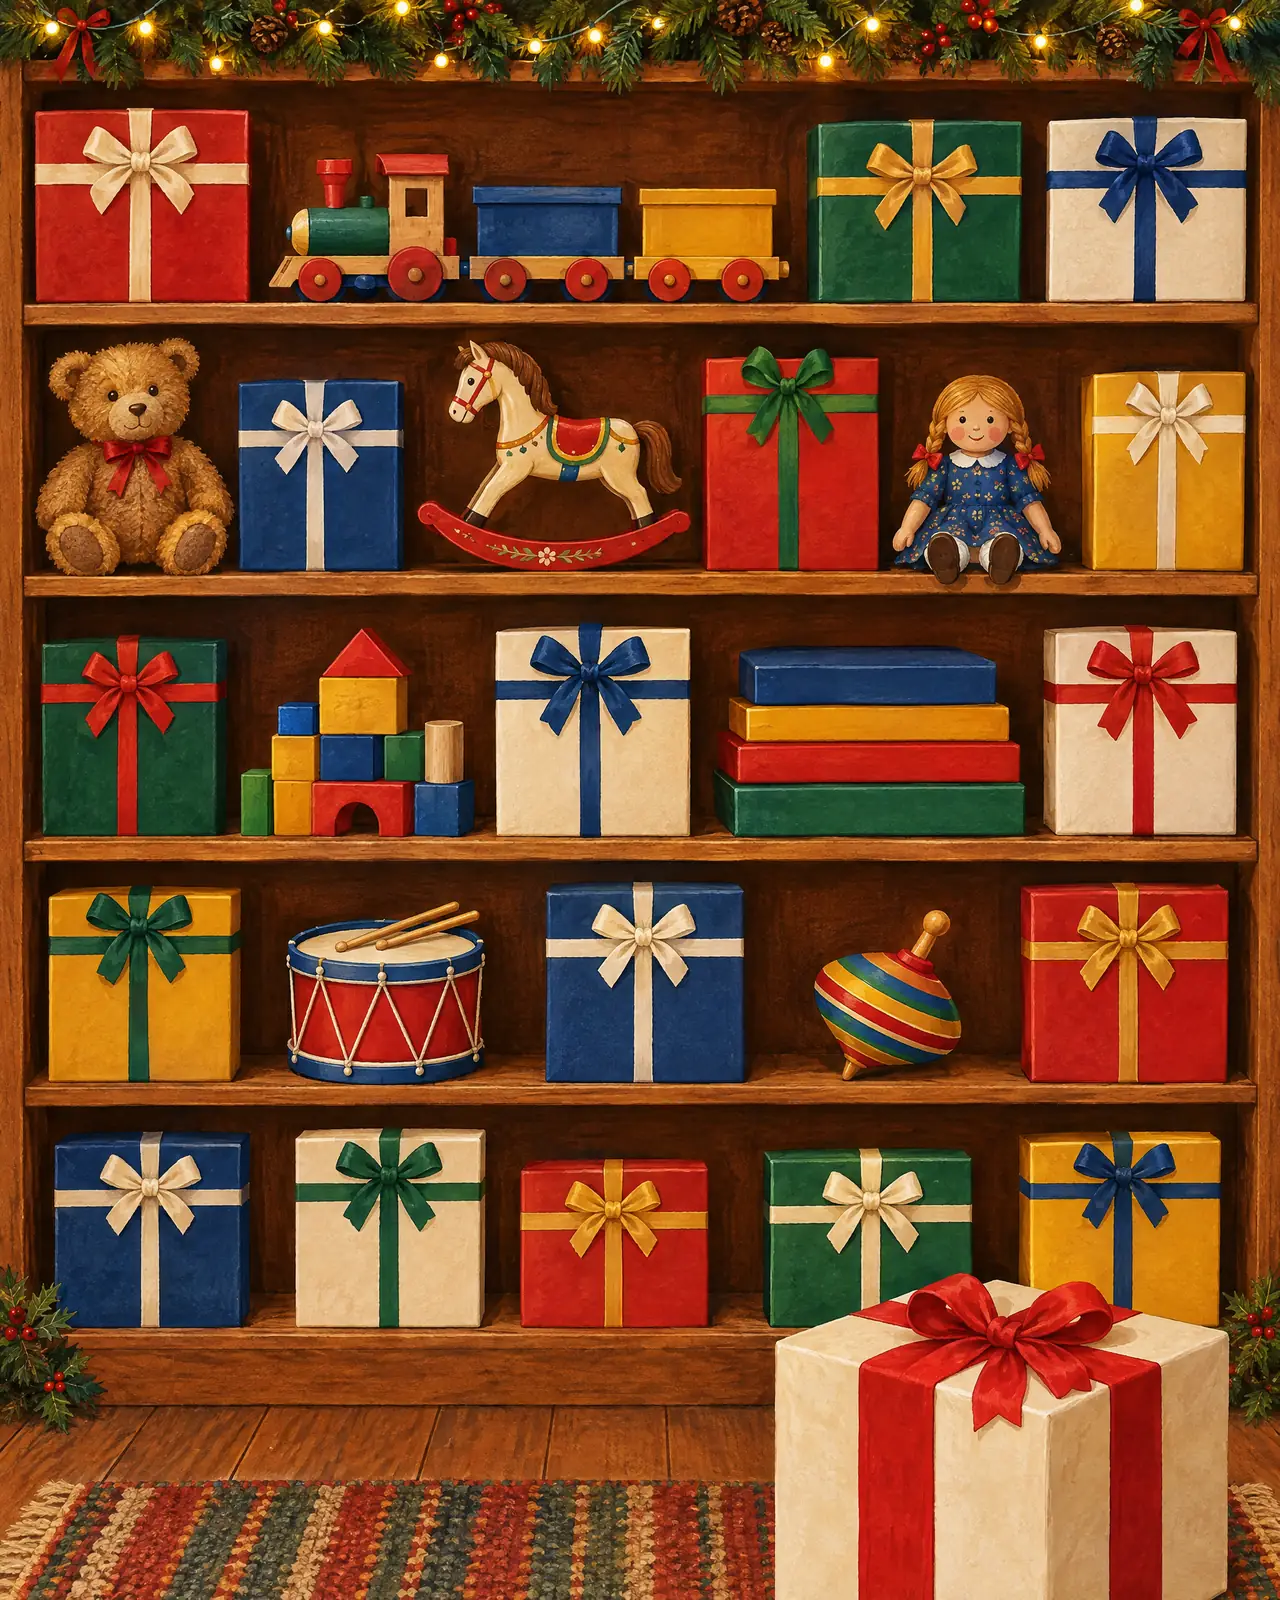
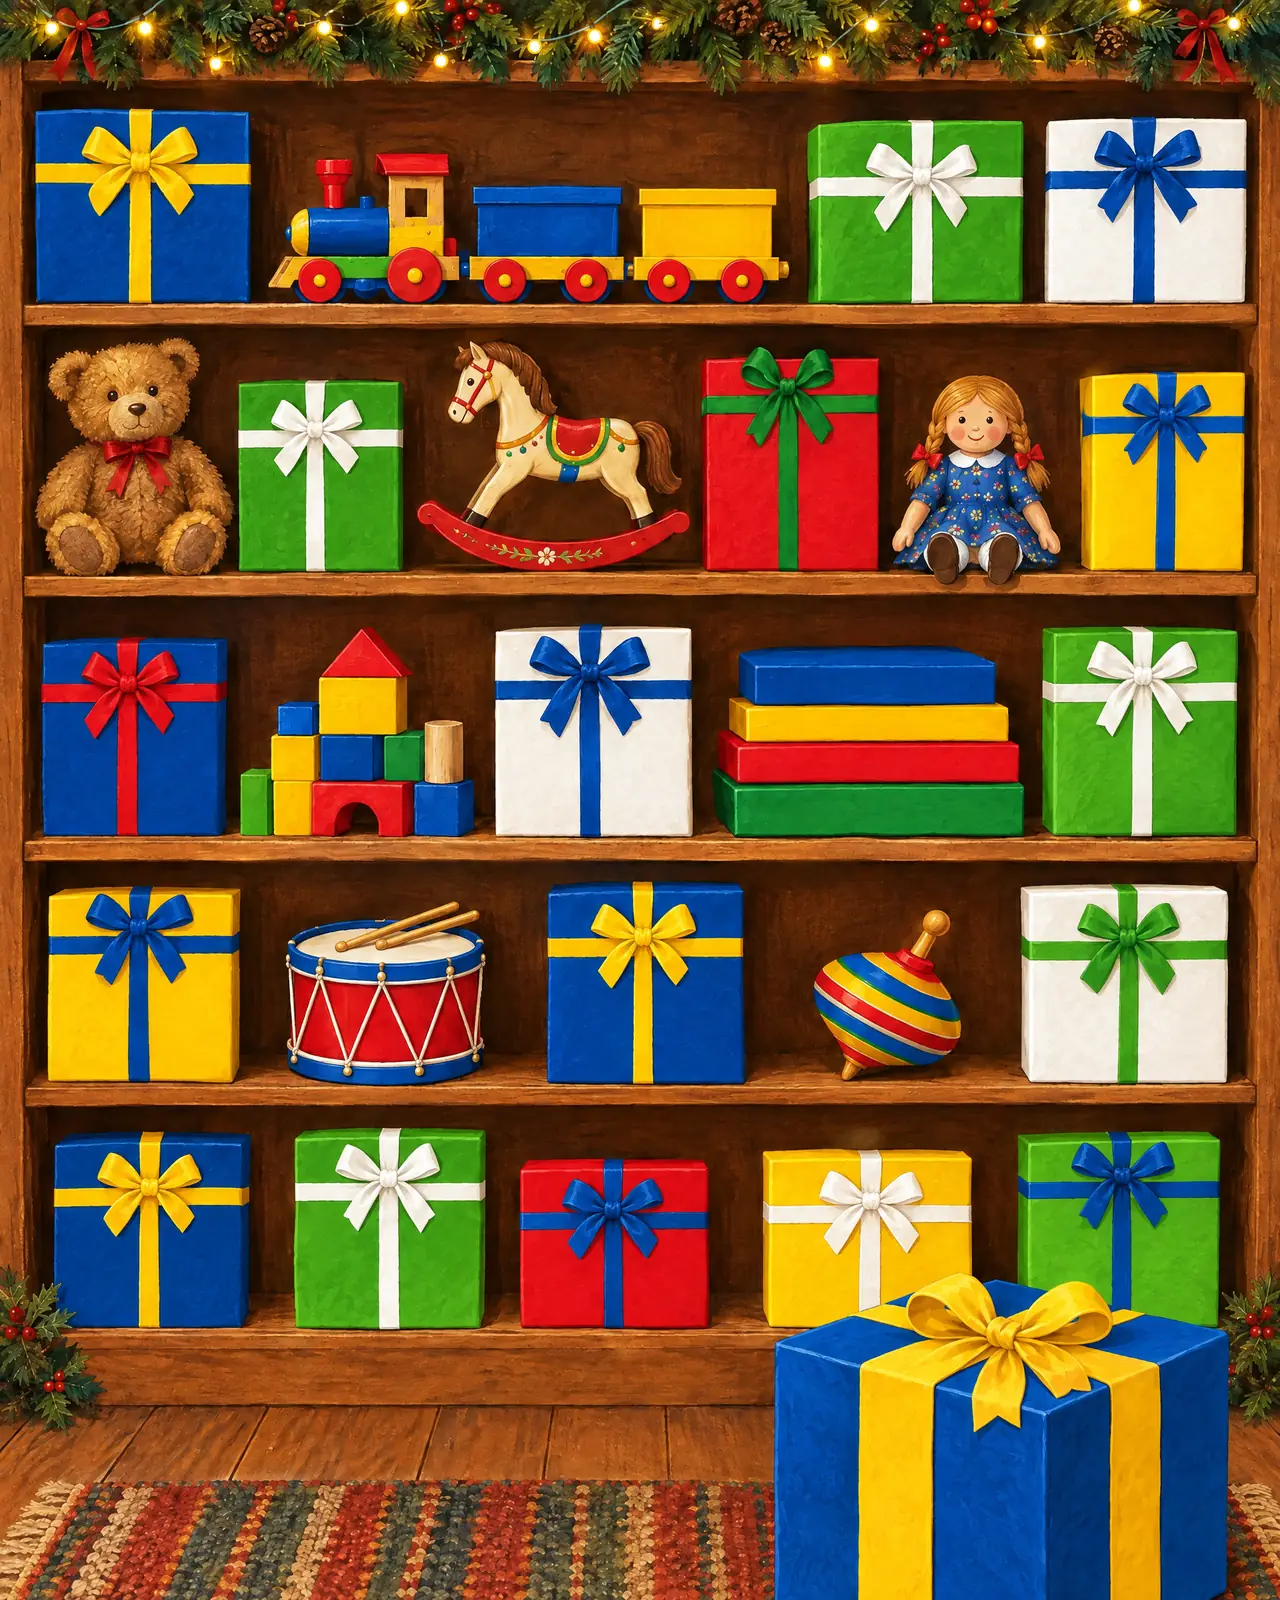
Paint Santa's workshop in Sparkys colours, reorder the look groups
The toy shop scene is recoloured to the Sparkys palette (blue, yellow,
green, red) with every box kept in place, and the look uses the same
colours. The gingerbread village closes the Christmas set and the
year-round set starts with the bedroom, passport and cottage looks.

diff --git a/index.html b/index.html
@@ -594,7 +594,7 @@
 
   /* téma: Sněhulák a sobi (vymyšlené, kreslené) */
   .demo[data-theme="snehulak"] { --d-bg: #0f3d2e; --d-ink: #f4f7ff; --d-ink-2: #bfd5c8; --d-today: #ffd21f; --d-today-ink: #132747; --d-btn: #DA2A49; --d-btn-ink: #fff; --d-font: 'Inter', 'Inter Fallback', Arial, sans-serif; --d-card: rgba(255,255,255,.08); --d-card-line: rgba(255,255,255,.16); }
-  .demo[data-theme="hracky"] { --d-bg: #1d2a57; --d-ink: #fffaf0; --d-ink-2: #c9d0ea; --d-today: #ffcd3c; --d-today-ink: #1d2a57; --d-btn: #e3242b; --d-btn-ink: #fff; --d-font: 'Inter', 'Inter Fallback', Arial, sans-serif; --d-card: rgba(255,255,255,.08); --d-card-line: rgba(255,255,255,.16); }
+  .demo[data-theme="hracky"] { --d-bg: #004996; --d-ink: #ffffff; --d-ink-2: #d4edfc; --d-today: #ffcd00; --d-today-ink: #0b093b; --d-btn: #52c018; --d-btn-ink: #fff; --adv-n-ink: #004996; --d-font: 'Inter', 'Inter Fallback', Arial, sans-serif; --d-card: rgba(255,255,255,.08); --d-card-line: rgba(255,255,255,.16); }
   .demo[data-theme="obyvak"] { --d-bg: #efe8de; --d-ink: #2c2a26; --d-ink-2: #6f675c; --d-today: #c8693f; --d-today-ink: #fff; --d-btn: #2c2a26; --d-btn-ink: #fff; --d-font: Georgia, 'Times New Roman', serif; --d-card: #fff; --d-card-line: #e0d8cc; --adv-n-ink: #2c2a26; }
   .demo[data-theme="loznice"] { --d-bg: #f5eee6; --d-ink: #3b2c25; --d-ink-2: #7a6558; --d-today: #b8323a; --d-today-ink: #fff; --d-btn: #b8323a; --d-btn-ink: #fff; --d-font: Georgia, 'Times New Roman', serif; --d-card: #fff; --d-card-line: #e6dbd0; --adv-n-ink: #b8323a; }
   .demo[data-theme="vesnicka"] { --d-bg: #4a2516; --d-ink: #fff6ea; --d-ink-2: #e3c7a8; --d-today: #ffd27a; --d-today-ink: #4a2516; --d-btn: #c8382c; --d-btn-ink: #fff; --d-font: Georgia, 'Times New Roman', serif; --d-card: rgba(255,255,255,.08); --d-card-line: rgba(255,255,255,.16); --adv-n-ink: #7a3a1c; }
@@ -1400,22 +1400,22 @@
         <div class="vz-set" role="group" aria-label="Vánoce a advent"><span class="vz-k" aria-hidden="true">Vánoce a advent</span><div class="vz-thumbs">
           <button type="button" class="vz-th" data-theme="fotoskoda" aria-pressed="true" aria-label="Dům s okny" title="Dům s okny" data-kat="Vánoce a advent" data-meta="Fototechnika · 24 dní" data-stitek="Skutečná kampaň" data-review-id="demo-vzhled-fotoskoda"><img src="img/nahledy/fotoskoda.webp" alt="" width="60" height="75" decoding="async"></button>
           <button type="button" class="vz-th" data-theme="snehulak" aria-pressed="false" aria-label="Zimní zahrada" title="Zimní zahrada" data-kat="Vánoce a advent" data-meta="Jakýkoli e‑shop · 24 dní" data-stitek="" data-review-id="demo-vzhled-snehulak"><img src="img/nahledy/snehulak.webp" alt="" width="60" height="75" decoding="async"></button>
-          <button type="button" class="vz-th" data-theme="vesnicka" aria-pressed="false" aria-label="Perníková vesnička" title="Perníková vesnička" data-kat="Vánoce a advent" data-meta="Cukrárny a delikatesy · 24 dní" data-stitek="" data-review-id="demo-vzhled-vesnicka"><img src="img/nahledy/vesnicka.webp" alt="" width="60" height="75" decoding="async"></button>
           <button type="button" class="vz-th" data-theme="hracky" aria-pressed="false" aria-label="Santova dílna" title="Santova dílna" data-kat="Vánoce a advent" data-meta="Hračkářství · 24 dní" data-stitek="" data-review-id="demo-vzhled-hracky"><img src="img/nahledy/hracky.webp" alt="" width="60" height="75" decoding="async"></button>
           <button type="button" class="vz-th" data-theme="obyvak" aria-pressed="false" aria-label="Vánoční obývák" title="Vánoční obývák" data-kat="Vánoce a advent" data-meta="Nábytek a bytové doplňky · 24 dní" data-stitek="" data-review-id="demo-vzhled-obyvak"><img src="img/nahledy/obyvak.webp" alt="" width="60" height="75" decoding="async"></button>
           <button type="button" class="vz-th" data-theme="loznice" aria-pressed="false" aria-label="24 nocí do Vánoc" title="24 nocí do Vánoc" data-kat="Vánoce a advent" data-meta="Ložní prádlo a textil · 24 dní" data-stitek="" data-review-id="demo-vzhled-loznice"><img src="img/nahledy/loznice.webp" alt="" width="60" height="75" decoding="async"></button>
           <button type="button" class="vz-th" data-theme="chata" aria-pressed="false" aria-label="Zasněžená chalupa" title="Zasněžená chalupa" data-kat="Vánoce a advent" data-meta="Chaty a chalupy · 24 dní" data-stitek="" data-review-id="demo-vzhled-chata"><img src="img/nahledy/chata.webp" alt="" width="60" height="75" decoding="async"></button>
+          <button type="button" class="vz-th" data-theme="vesnicka" aria-pressed="false" aria-label="Perníková vesnička" title="Perníková vesnička" data-kat="Vánoce a advent" data-meta="Cukrárny a delikatesy · 24 dní" data-stitek="" data-review-id="demo-vzhled-vesnicka"><img src="img/nahledy/vesnicka.webp" alt="" width="60" height="75" decoding="async"></button>
         </div></div>
         <span class="vz-sep" aria-hidden="true"></span>
         <div class="vz-set" role="group" aria-label="Kdykoli během roku"><span class="vz-k" aria-hidden="true">Kdykoli během roku</span><div class="vz-thumbs">
-          <button type="button" class="vz-th" data-theme="harfa" aria-pressed="false" aria-label="Slavíme 30 let" title="Slavíme 30 let" data-kat="Kdykoli během roku" data-meta="Sportovní e‑shop · 30 dní" data-stitek="Skutečná kampaň" data-review-id="demo-vzhled-harfa"><img src="img/nahledy/harfa.webp" alt="" width="60" height="75" decoding="async"></button>
-          <button type="button" class="vz-th" data-theme="obalky" aria-pressed="false" aria-label="Deset let, deset obálek" title="Deset let, deset obálek" data-kat="Kdykoli během roku" data-meta="Výročí e‑shopu · 10 dní" data-stitek="" data-review-id="demo-vzhled-obalky"><img src="img/nahledy/obalky.webp" alt="" width="60" height="75" decoding="async"></button>
-          <button type="button" class="vz-th" data-theme="velikonoce" aria-pressed="false" aria-label="Velikonoční kraslice" title="Velikonoční kraslice" data-kat="Kdykoli během roku" data-meta="Zahrada a jaro · 24 dní" data-stitek="" data-review-id="demo-vzhled-velikonoce"><img src="img/nahledy/velikonoce.webp" alt="" width="60" height="75" decoding="async"></button>
-          <button type="button" class="vz-th" data-theme="raketa" aria-pressed="false" aria-label="Odpočet ke startu" title="Odpočet ke startu" data-kat="Kdykoli během roku" data-meta="Stavebnice · 10 dní" data-stitek="" data-review-id="demo-vzhled-raketa"><img src="img/nahledy/raketa.webp" alt="" width="60" height="75" decoding="async"></button>
           <button type="button" class="vz-th" data-theme="spani" aria-pressed="false" aria-label="7 nocí pro spánek" title="7 nocí pro spánek" data-kat="Kdykoli během roku" data-meta="Bytový textil · 7 nocí" data-stitek="" data-review-id="demo-vzhled-spani"><img src="img/nahledy/spani.webp" alt="" width="60" height="75" decoding="async"></button>
           <button type="button" class="vz-th" data-theme="pas" aria-pressed="false" aria-label="Cestovní pas" title="Cestovní pas" data-kat="Kdykoli během roku" data-meta="Duty free na hranici · 14 dní" data-stitek="" data-review-id="demo-vzhled-pas"><img src="img/nahledy/pas.webp" alt="" width="60" height="75" decoding="async"></button>
           <button type="button" class="vz-th" data-theme="chalupa" aria-pressed="false" aria-label="Víkendy na chalupě" title="Víkendy na chalupě" data-kat="Kdykoli během roku" data-meta="Chaty a chalupy · 8 víkendů" data-stitek="" data-review-id="demo-vzhled-chalupa"><img src="img/nahledy/chalupa.webp" alt="" width="60" height="75" decoding="async"></button>
           <button type="button" class="vz-th" data-theme="vzorky" aria-pressed="false" aria-label="Archiv v barvách" title="Archiv v barvách" data-kat="Kdykoli během roku" data-meta="Prémiový nábytek · 8 dní" data-stitek="" data-review-id="demo-vzhled-vzorky"><img src="img/nahledy/vzorky.webp" alt="" width="60" height="75" decoding="async"></button>
+          <button type="button" class="vz-th" data-theme="velikonoce" aria-pressed="false" aria-label="Velikonoční kraslice" title="Velikonoční kraslice" data-kat="Kdykoli během roku" data-meta="Zahrada a jaro · 24 dní" data-stitek="" data-review-id="demo-vzhled-velikonoce"><img src="img/nahledy/velikonoce.webp" alt="" width="60" height="75" decoding="async"></button>
+          <button type="button" class="vz-th" data-theme="obalky" aria-pressed="false" aria-label="Deset let, deset obálek" title="Deset let, deset obálek" data-kat="Kdykoli během roku" data-meta="Výročí e‑shopu · 10 dní" data-stitek="" data-review-id="demo-vzhled-obalky"><img src="img/nahledy/obalky.webp" alt="" width="60" height="75" decoding="async"></button>
+          <button type="button" class="vz-th" data-theme="raketa" aria-pressed="false" aria-label="Odpočet ke startu" title="Odpočet ke startu" data-kat="Kdykoli během roku" data-meta="Stavebnice · 10 dní" data-stitek="" data-review-id="demo-vzhled-raketa"><img src="img/nahledy/raketa.webp" alt="" width="60" height="75" decoding="async"></button>
+          <button type="button" class="vz-th" data-theme="harfa" aria-pressed="false" aria-label="Slavíme 30 let" title="Slavíme 30 let" data-kat="Kdykoli během roku" data-meta="Sportovní e‑shop · 30 dní" data-stitek="Skutečná kampaň" data-review-id="demo-vzhled-harfa"><img src="img/nahledy/harfa.webp" alt="" width="60" height="75" decoding="async"></button>
         </div></div>
       </div>
     </div>
@@ -1810,7 +1810,7 @@
     harfa: { dni: 30, layout: 'grid', top: '', eyebrow: 'Sportovní e‑shop · 30 let', t: 'Slavíme 30' + NB + 'let', l: 'Každý den odkryjete jedno okénko. Uvnitř je sleva, doprava zdarma, dárek nebo služba na' + NB + 'prodejně.', btn: 'Odkrýt dnešní dárek', den: 'den' },
     zlate: { dni: 24, layout: 'grid', top: '', eyebrow: 'Vaše značka · advent 2026', t: 'Zlaté Vánoce', l: 'Čtyřiadvacet dvířek, čtyřiadvacet dárků. Otevřít jde jen to dnešní.', btn: 'Otevřít dnešní dvířka', den: 'dvířka' },
     snehulak: { dni: 24, layout: 'advent', top: '', eyebrow: 'Vaše značka · advent 2026', t: 'Zimní zahrada', l: 'Obrázek jako z' + NB + 'dětství, do kterého je vyřezáno 24' + NB + 'okének. Každý den se jedno vyloupne a' + NB + 'schová dárek.', btn: 'Vyloupnout dnešní okénko', den: 'okénko', finale: 'Ukázat Štědrý den' },
-    hracky: { dni: 24, layout: 'advent', top: '', eyebrow: 'Hračkářství · advent 2026', t: 'Santova dílna', l: 'Regál plný krabic, vláčků a' + NB + 'bubínků. Každý den se jedna krabice otevře a' + NB + 'uvnitř čeká dárek pro malé i' + NB + 'velké.', btn: 'Otevřít dnešní krabici', den: 'krabice', finale: 'Ukázat Štědrý den' },
+    hracky: { dni: 24, layout: 'advent', top: '', eyebrow: 'Hračkářství · advent 2026', t: 'Santova dílna', l: 'Regál plný krabic, vláčků a' + NB + 'bubínků. Každý den se jedna krabice otevře a' + NB + 'uvnitř čeká dárek pro malé i' + NB + 'velké.', btn: 'Otevřít dnešní krabici', den: 'krabice', finale: 'Ukázat Štědrý den', tip: 'Klikněte na' + NB + 'dnešní krabici a' + NB + 'odkryjte dárek.' },
     obyvak: { dni: 24, layout: 'advent', top: '', eyebrow: 'Nábytek a doplňky · advent 2026', t: 'Vánoční obývák', l: 'Šuplíky komody, rámy na' + NB + 'zdi, polštáře i' + NB + 'dárky pod stromkem. Každý den se jeden kousek domova otevře a' + NB + 'schová dárek.', btn: 'Otevřít dnešní okénko', den: 'okénko', finale: 'Ukázat Štědrý den' },
     loznice: { dni: 24, layout: 'advent', top: '', eyebrow: 'Ložní prádlo · advent 2026', t: '24 nocí do' + NB + 'Vánoc', l: 'Okenní tabulky, polštáře i' + NB + 'šuplíky nočních stolků. Každou noc se jedno okénko otevře a' + NB + 'za oknem přibývá sněhu.', btn: 'Otevřít dnešní noc', den: 'noc', finale: 'Ukázat Štědrou noc' },
     vesnicka: { dni: 24, layout: 'advent', top: '', eyebrow: 'Cukrárna a delikatesy · advent 2026', t: 'Perníková vesnička', l: 'Čtyři perníkové chaloupky a' + NB + 'kostelík. Každé okno a' + NB + 'dvířka schovávají jednu dobrotu, na' + NB + 'Štědrý den se rozsvítí rozeta kostela.', btn: 'Otevřít dnešní okénko', den: 'okénko', finale: 'Ukázat Štědrý den' },
@@ -2279,7 +2279,7 @@
   });
 
   // the admin preview borrows the chosen calendar's brand colour and font
-  var ADMIN_BARVY = { fotoskoda: '#0d1f52', snehulak: '#0f3d2e', hracky: '#1d2a57', obyvak: '#a5532f', loznice: '#b8323a', vesnicka: '#6b3420', chata: '#16233a', jidlo: '#7a1a22', moda: '#8f1027', harfa: '#2f8f80', velikonoce: '#2e8b3a', raketa: '#004996', spani: '#0e8348', pas: '#e30613', chalupa: '#5c7600', vzorky: '#111111', obalky: '#b3262c' };
+  var ADMIN_BARVY = { fotoskoda: '#0d1f52', snehulak: '#0f3d2e', hracky: '#004996', obyvak: '#a5532f', loznice: '#b8323a', vesnicka: '#6b3420', chata: '#16233a', jidlo: '#7a1a22', moda: '#8f1027', harfa: '#2f8f80', velikonoce: '#2e8b3a', raketa: '#004996', spani: '#0e8348', pas: '#e30613', chalupa: '#5c7600', vzorky: '#111111', obalky: '#b3262c' };
   // the browser bars and the campaign picker follow the chosen look
   var SUBDOMENY = { fotoskoda: 'advent', harfa: '30let', zlate: 'advent', sever: 'advent', snehulak: 'snehulak', hracky: 'dilna', obyvak: 'domov', loznice: 'noci', vesnicka: 'pernik', chata: 'hory', moda: 'satnik', jidlo: 'dobroty', velikonoce: 'velikonoce', narozeniny: '50let', vyroci: '10let', raketa: 'start', obalky: 'obalky', spani: 'spanek', pas: 'pas', chalupa: 'chalupa', vzorky: 'vzorky' };
   function adresy(t) {
